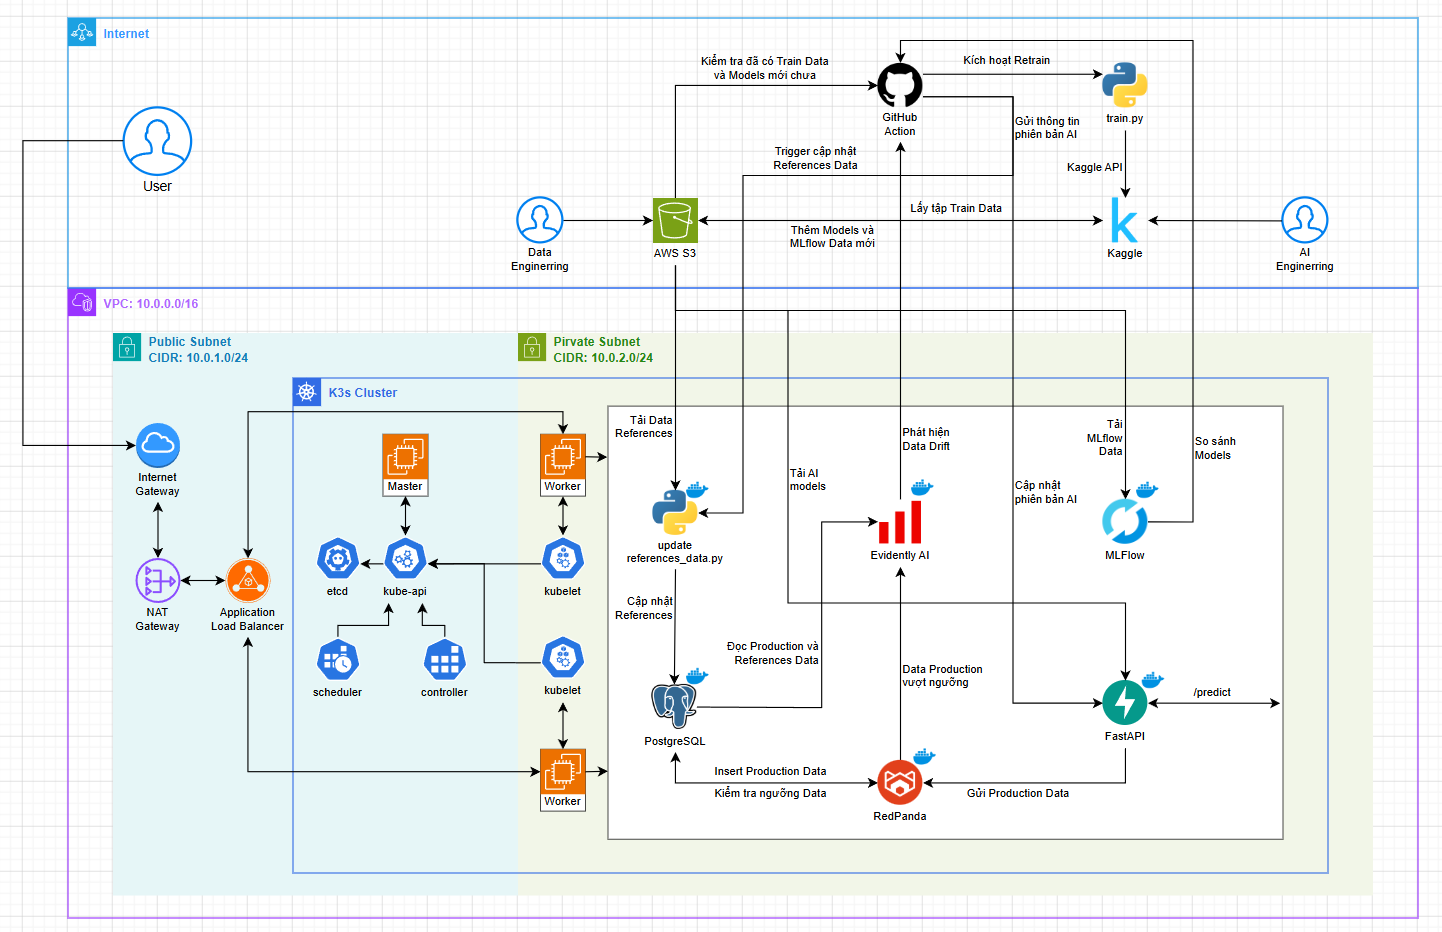
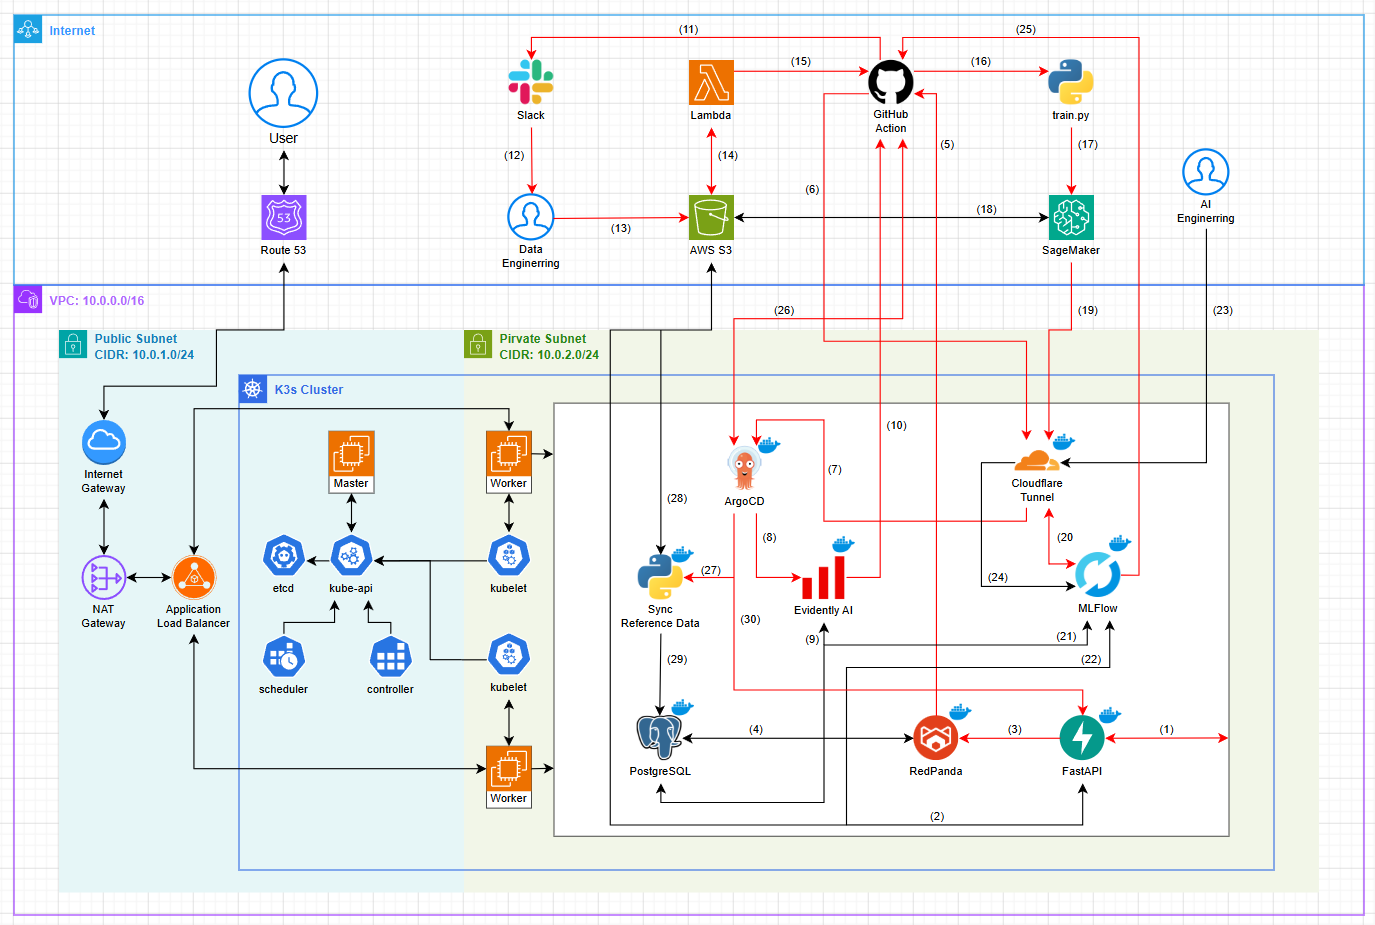
docs: Update the system architecture diagram.

diff --git a/README.md b/README.md
@@ -46,9 +46,9 @@ FastAPI (Producer) ────► Redpanda (Message Queue) + Consumer (Batch DB
         │                                           ▼
     SageMaker + MLflow Registry ◄──── GitHub Actions (Retrain Pipeline) ◄──── AWS S3 + Lambda
         │
-        │ (GitOps: git push k8s/apps/)
+        │
         ▼
-    ArgoCD (Auto-Sync → K3s Cluster)
+    ArgoCD (Auto-Sync -> K3s Cluster)
 ```
 
 ---
@@ -69,7 +69,6 @@ FastAPI (Producer) ────► Redpanda (Message Queue) + Consumer (Batch DB
 | 10  | **Zero-trust & Keyless Security** - Xác thực OIDC, loại bỏ mật khẩu tĩnh       | AWS OIDC + Secrets Manager |
 | 11  | **Full-stack Observability** - Giám sát API, DB, Redpanda và ML metrics        | Prometheus + Grafana       |
 | 12  | **Smart Alerting** - Cảnh báo DDoS, Latency cao qua Slack                      | AlertManager + Slack       |
-| 13  | **Event-driven Autoscaling** - Tự động scale Consumer theo độ trễ tin nhắn     | KEDA + Redpanda Lag        |
 
 ---
 
@@ -109,7 +108,7 @@ FastAPI (Producer) ────► Redpanda (Message Queue) + Consumer (Batch DB
 mlops-nids-system/
 │
 ├── .github/workflows/
-│   ├── ci_cd_pipeline.yml                # Build Docker Image -> Push Docker Hub -> GitOps (yq + git push)
+│   ├── ci_cd_pipeline.yml                # Build Docker Image -> Push Docker Hub -> GitOps
 │   ├── retrain_pipeline.yml              # Nhận Webhook -> Tải dữ liệu S3 -> Kích hoạt SageMaker Job
 │   ├── deploy_from_mlflow.yml            # Nhận RUN_ID -> Cập nhật k8s/apps/ -> ArgoCD tự sync
 │   ├── trigger_drift_check.yml           # Lắng nghe Webhook -> GitOps trigger Evidently Job
@@ -129,9 +128,13 @@ mlops-nids-system/
 │   └── requirements.txt
 │
 ├── mlflow/
-│   ├── dispatch_production_model.py      # CronJob: Đọc MLflow Registry -> Bắn Deploy Webhook
-│   ├── Dockerfile
-│   └── requirements.txt
+│   ├── mlflow-client/
+│   │   ├── dispatch_production_model.py  # CronJob: Đọc MLflow Registry -> Bắn Deploy Webhook
+│   │   ├── Dockerfile
+│   │   └── requirements.txt
+│   └── mlflow-server/
+│       ├── Dockerfile                    # Đóng gói thêm thư viện cần thiết cho MLflow Server
+│       └── requirements.txt
 │
 ├── evidently/
 │   ├── detect_drift.py                   # Evidently AI: Query DB -> So sánh với Baseline -> Report
@@ -140,7 +143,7 @@ mlops-nids-system/
 │
 ├── sagemaker/
 │   ├── train.py                          # XGBoost Training: Đọc S3 trực tiếp -> MLflow Tracking
-│   └── requirements.txt                  # Thư viện cần thiết cho môi trường SageMaker (XGBoost, MLflow)
+│   └── requirements.txt                  # Thư viện cho môi trường SageMaker (XGBoost, MLflow)
 │
 ├── k8s/
 │   ├── apps/                             # ArgoCD quản lý (auto-sync) - Thư mục chính của GitOps
@@ -160,7 +163,7 @@ mlops-nids-system/
 │   │   ├── grafana-alertrules.yaml       # Định nghĩa luật cảnh báo (DDoS, Latency...)
 │   │   ├── cluster-secret-store.yaml     # ESO ClusterSecretStore: Kết nối K3s với AWS Secrets Manager
 │   │   ├── external-secrets.yaml         # ExternalSecret: Đồng bộ 6 nhóm Secret từ AWS về K3s
-│   │   ├── traefik-ingressroute.yaml     # Traefik IngressRoute expose endpoint /ping cho ALB health check
+│   │   ├── traefik-ping.yaml             # Expose endpoint /ping cho ALB health check
 │   │   ├── network-policy.yaml           # Zero-Trust Networking cho các service trong cụm K3s
 │   │   └── pod-disruption-budgets.yaml   # Bảo vệ service khi bảo trì node (kubectl drain)
 │   │
@@ -176,7 +179,9 @@ mlops-nids-system/
 │   │   └── monitoring-install.sh         # Script cài đặt Prometheus & Grafana Stack
 │   │
 │   └── argocd/                           # Cấu hình ArgoCD
-│       └── application.yaml              # ArgoCD Application: Trỏ vào k8s/apps/ và tự sync
+│       ├── application.yaml              # ArgoCD Application quản lý toàn bộ k8s/apps/
+│       ├── application-jobs.yaml         # ArgoCD Application quản lý One-time Jobs
+│       └── rbac.yaml                     # RBAC cho ArgoCD Service Account
 │
 ├── infra/
 │   ├── main.tf                           # Terraform: VPC + EC2 + ALB + S3 + Lambda + IAM + OIDC
@@ -201,7 +206,7 @@ mlops-nids-system/
 │   ├── train_3_classes.csv               # Dữ liệu huấn luyện 3 nhãn (BENIGN/DDoS/PortScan)
 │   └── drift_portscan.csv                # Dữ liệu giả lập drift PortScan
 │
-├── data_manifest.json                    # "Source of Truth": target_csv + model_version -> Trigger Lambda
+├── data_manifest.json                    # Source of Truth: target_csv + model_version -> Trigger Lambda
 ├── docker-compose.yml                    # Môi trường phát triển local (API + DB + Redpanda + Evidently)
 └── .env.example                          # Template biến môi trường
 ```
@@ -291,7 +296,8 @@ terraform apply
   "DOCKERHUB_USERNAME": "<your-dockerhub-username>",
   "DOCKERHUB_TOKEN": "<your-dockerhub-token>",
   "SLACK_WEBHOOK_URL": "<your-slack-webhook-url>",
-  "KUBE_CONFIG": "<your-kube-config-base64>"
+  "KUBE_CONFIG": "<your-kube-config-base64>",
+  "ARGOCD_TOKEN": "<your-argocd-token>"
 }
 ```
 
@@ -402,104 +408,123 @@ bash k8s/scripts/argo-install.sh
 
 ```
 
-2. Kích hoạt hệ thống Bảo mật
+2. Lấy các secret từ AWS Secrets Manager
 
 ```bash
 # Đồng bộ Secret từ AWS về K3s
-kubectl apply -f k8s/cluster-secret-store.yaml
-kubectl apply -f k8s/external-secrets.yaml
+kubectl apply -f k8s/apps/cluster-secret-store.yaml
+kubectl apply -f k8s/apps/external-secrets.yaml
 
 # Kiểm tra các secrets
 kubectl get secrets
 ```
 
-3. Triển khai CloudFlare Tunnel
+3. Triển khai ArgoCD
 
 ```bash
-# Expore MLflow Server và K3s Dashboard bằng HTTPS
-kubectl apply -f k8s/cloudflared-tunnel.yaml
+# Tạo RBAC cho github-actions
+kubectl apply -f k8s/argocd/rbac.yaml
+
+# Tạo Application resources để ArgoCD quản lý
+kubectl apply -f k8s/argocd/application.yaml
+kubectl apply -f k8s/argocd/application-jobs.yaml
+
+# Lấy mật khẩu admin
+kubectl -n argocd get secret argocd-initial-admin-secret -o jsonpath="{.data.password}" | base64 --decode
 ```
 
-4. Triển khai Database & Message Queue
+4. Triển khai CloudFlare Tunnel
+
+```bash
+# Expore MLflow, Grafana, ArgoCD, Dashboard bằng HTTPS
+kubectl apply -f k8s/apps/cloudflared-tunnel.yaml
+```
+
+5. Triển khai Database & Message Queue
 
 ```bash
 # Khởi tạo StorageClass AWS EBS gp3
-kubectl apply -f k8s/ebs-gp3-storageclass.yaml
+kubectl apply -f k8s/apps/ebs-gp3-storageclass.yaml
 
 # Khởi chạy cụm PostgreSQL HA
-kubectl apply -f k8s/postgres-cluster.yaml
+kubectl apply -f k8s/apps/postgres-cluster.yaml
 
 # Chạy Job update dữ liệu Reference Data
-kubectl apply -f k8s/sync-data-job.yaml
+kubectl apply -f k8s/jobs/sync-data-job.yaml
 
 # Khởi chạy Redpanda (Kafka)
-kubectl apply -f k8s/redpanda-statefulset.yaml
+kubectl apply -f k8s/apps/redpanda-statefulset.yaml
 ```
 
-5. Triển khai MLflow Registry Server
+6. Triển khai MLflow Registry Server
 
 ```bash
 # Chạy Job tạo bảng dữ liệu cho MLflow (chỉ chạy 1 lần)
-kubectl apply -f k8s/mlflow-init-job.yaml
+kubectl apply -f k8s/jobs/mlflow-init-job.yaml
 
-# Triển khai MLflow Server + Nginx Bảo mật + Cloudflare Tunnel
-kubectl apply -f k8s/mlflow-deployment.yaml
-kubectl apply -f k8s/mlflow-nginx.yaml
+# Triển khai MLflow Server
+kubectl apply -f k8s/apps/mlflow-deployment.yaml
 
 # Chạy lịch trình kiểm tra Model mới tự động mỗi 5 phút
-kubectl apply -f k8s/dispatch-cronjob.yaml
+kubectl apply -f k8s/apps/dispatch-cronjob.yaml
 ```
 
-6. Triển khai API & Consumer
+7. Triển khai API & Consumer
 
 ```bash
 # Triển khai API & Consumer
-kubectl apply -f k8s/api-deployment.yaml
-kubectl apply -f k8s/consumer-deployment.yaml
+kubectl apply -f k8s/apps/api-deployment.yaml
+kubectl apply -f k8s/apps/consumer-deployment.yaml
 ```
 
-7. Kiểm tra Data drift
+8. Kiểm tra Data drift
 
 ```bash
 # Gọi Job Evidently (GitHub Action)
-kubectl apply -f k8s/evidently-job.yaml
+kubectl apply -f k8s/jobs/evidently-job.yaml
 ```
 
-8. Triển khai Hệ thống Giám sát (Observability)
+9. Triển khai Hệ thống Giám sát (Observability)
 
 ```bash
 # Triển khai các ServiceMonitor và PodMonitor
-kubectl apply -f k8s/postgres-podmonitor.yaml
-kubectl apply -f k8s/api-servicemonitor.yaml
-kubectl apply -f k8s/redpanda-servicemonitor.yaml
+kubectl apply -f k8s/apps/postgres-podmonitor.yaml
+kubectl apply -f k8s/apps/api-servicemonitor.yaml
+kubectl apply -f k8s/apps/redpanda-servicemonitor.yaml
 
-# Cấu hình Alerting và Expose Grafana Dashboard
-kubectl apply -f k8s/grafana-alertrules.yaml
-kubectl apply -f k8s/grafana-cloudflared.yaml
+# Cấu hình Grafana Alerting
+kubectl apply -f k8s/apps/grafana-alertrules.yaml
 ```
 
-9. Cấu hình Autoscaling
+10. Cấu hình Autoscaling
 
 ```bash
 # Autoscaling Consumer với KEDA
-kubectl apply -f k8s/consumer-scaledobject.yaml
+kubectl apply -f k8s/apps/consumer-scaledobject.yaml
 
 # Autoscaling API với HPA
-kubectl apply -f k8s/api-hpa.yaml
+kubectl apply -f k8s/apps/api-hpa.yaml
 ```
 
-10. Bảo vệ các service khỏi downtime
+11. Các cấu hình bổ sung
 
 ```bash
+# Expose endpoint /ping cho ALB health check
+kubectl apply -f k8s/apps/traefik-ping.yaml
+
 # Tránh downtime khi cập nhật hệ thống kubectl drain
-kubectl apply -f k8s/pod-disruption-budgets.yaml
+kubectl apply -f k8s/apps/pod-disruption-budgets.yaml
+
+# Tạo Network Policy để tăng cường bảo mật
+kubectl apply -f k8s/apps/network-policy.yaml
 ```
 
 > API Documents: https://api.mlops-nids-nt114.id.vn/docs  
 > MLflow Server: https://mlflow.mlops-nids-nt114.id.vn  
 > Redpanda Console: https://redpanda.mlops-nids-nt114.id.vn  
 > K3s Dashboard: https://dashboard.mlops-nids-nt114.id.vn  
-> Grafana Dashboard: https://grafana.mlops-nids-nt114.id.vn
+> Grafana Dashboard: https://grafana.mlops-nids-nt114.id.vn  
+> ArgoCD Dashboard: https://argocd.mlops-nids-nt114.id.vn
 
 ---
 
